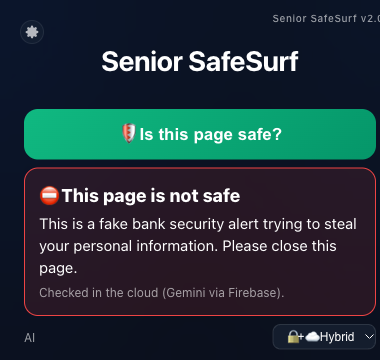
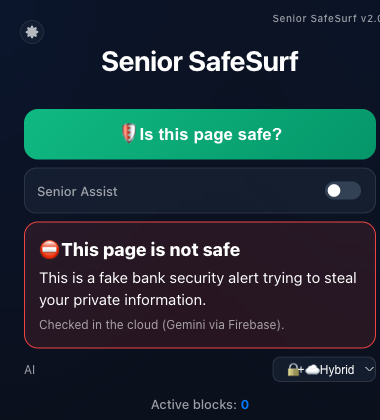
Overlay: flat green shield between Aa+ and the gear; popup: Senior Assist toggle under the page check
Screenshots retaken.

diff --git a/senior_overlay.js b/senior_overlay.js
@@ -156,12 +156,9 @@
             }
 
             // 0. "Is this page safe?" (same AI check as the popup)
-            const safeBtn = createThemedButton('🛡', 'Is this page safe?');
+            const safeBtn = createThemedButton('', 'Is this page safe?');
             safeBtn.setAttribute('aria-label', 'Is this page safe?');
-            safeBtn.style.background = 'linear-gradient(135deg, #10b981 0%, #059669 100%)';
-            safeBtn.style.borderColor = 'transparent';
-            safeBtn.style.fontSize = '18px';
-            safeBtn.onmouseout = () => { safeBtn.style.transform = 'translateY(0)'; safeBtn.style.boxShadow = 'none'; };
+            safeBtn.innerHTML = SHIELD_SVG; // constant markup, no page or AI data
             safeBtn.onclick = () => checkThisPage(safeBtn, { isLight, textColor, bgColor, borderColor, mutedColor });
 
             // 1. Zoom Controls
@@ -219,9 +216,9 @@
                 }
             };
 
-            overlay.appendChild(safeBtn);
             overlay.appendChild(zoomOutBtn);
             overlay.appendChild(zoomInBtn);
+            overlay.appendChild(safeBtn);
             overlay.appendChild(settingsBtn);
             overlay.appendChild(separator);
             overlay.appendChild(closeBtn);
@@ -299,6 +296,11 @@
 
     // ---------- "Is this page safe?" card ----------
     const CHECK_ID = 'safenet-senior-check';
+    // Flat green shield with a check mark (inline SVG, no emoji).
+    const SHIELD_SVG = '<svg width="26" height="26" viewBox="0 0 24 24" aria-hidden="true" style="display:block;flex-shrink:0">' +
+        '<path d="M12 2 4 5v6.5c0 5.2 3.4 9.4 8 10.5 4.6-1.1 8-5.3 8-10.5V5l-8-3z" fill="#10b981"/>' +
+        '<path d="m8.3 12.2 2.6 2.6 4.9-5.3" fill="none" stroke="#fff" stroke-width="2.2" stroke-linecap="round" stroke-linejoin="round"/>' +
+        '</svg>';
     const HEADLINE = {
         allow: '✅ This page looks safe',
         warn: '⚠ Be careful on this page',
@@ -362,8 +364,9 @@
         if (checking) return;
         checking = true;
         btn.textContent = '…';
+        btn.style.color = '#10b981';
         btn.disabled = true;
-        showCheckCard(theme, { verdict: 'unknown', title: '🛡 Checking this page…', text: 'This takes a few seconds.' });
+        showCheckCard(theme, { verdict: 'unknown', title: 'Checking this page…', text: 'This takes a few seconds.' });
         try {
             const snapshot = SafeSurfSnapshot.build({ trigger: 'manual' });
             const v = (await chrome.runtime.sendMessage({ command: 'analyzePage', snapshot, trigger: 'manual' })) || {};
@@ -374,7 +377,7 @@
             showCheckCard(theme, { verdict: 'unknown', title: HEADLINE.unknown, text: 'Reload the page and try again.' });
         } finally {
             checking = false;
-            btn.textContent = '🛡';
+            btn.innerHTML = SHIELD_SVG;
             btn.disabled = false;
         }
     }

diff --git a/popup.html b/popup.html
@@ -704,6 +704,14 @@
             <!-- AI: "Is this page safe?" -->
             <div class="ai-check">
                 <button id="aiCheckBtn" class="ai-check-btn" data-i18n="ai_check_btn">🛡 Is this page safe?</button>
+                <div
+                    style="display: flex; justify-content: space-between; align-items: center; margin: 0; background: var(--bg-accent); padding: 12px; border-radius: 12px; border: 1px solid var(--border);">
+                    <span style="font-size: 13px; font-weight: 500; color: var(--text-muted);">Senior Assist</span>
+                    <label class="switch" style="transform: scale(0.9);">
+                        <input type="checkbox" id="popupOverlayToggle">
+                        <span class="slider"></span>
+                    </label>
+                </div>
                 <div id="aiCheckResult" class="ai-check-result hidden" aria-live="polite"></div>
                 <div class="ai-mode-row">
                     <span data-i18n="ai_label">AI</span>
@@ -734,14 +742,6 @@
                 Security & Rules
             </div>
 
-            <div
-                style="display: flex; justify-content: space-between; align-items: center; margin-top: 16px; background: var(--bg-accent); padding: 12px; border-radius: 12px; border: 1px solid var(--border);">
-                <span style="font-size: 13px; font-weight: 500; color: var(--text-muted);">Senior Assist</span>
-                <label class="switch" style="transform: scale(0.9);">
-                    <input type="checkbox" id="popupOverlayToggle">
-                    <span class="slider"></span>
-                </label>
-            </div>
         </div>
     </div>
 
